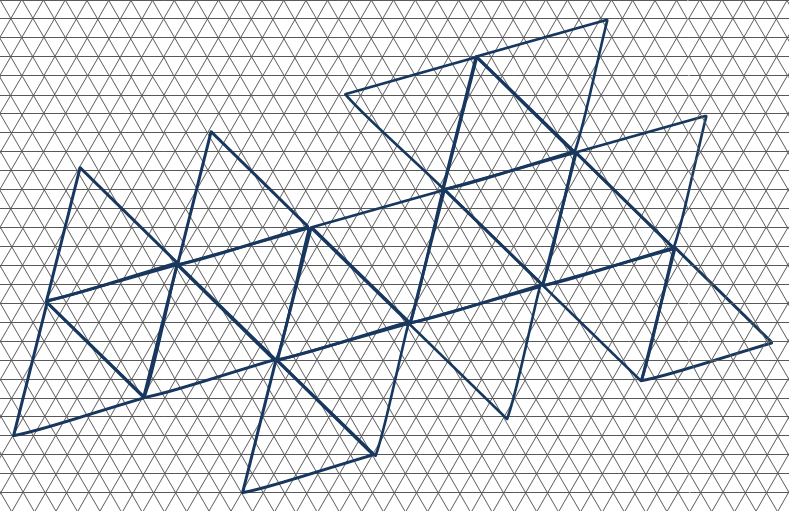
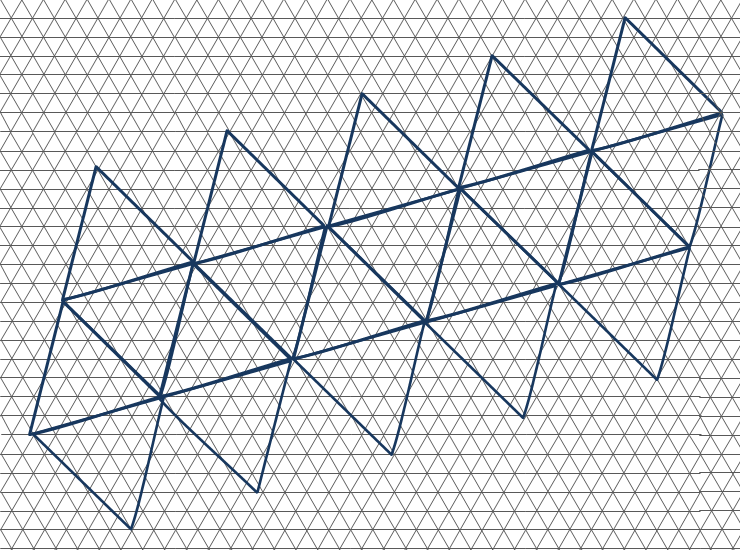
update images

diff --git a/content/snippets/gamelets/Geodesic_Design.md b/content/snippets/gamelets/Geodesic_Design.md
@@ -44,10 +44,17 @@ There are three classes of these types of polyhedra
 * Class II GD(m, m)  
 * Class III GD(m, n) m &ne; n
 
-For Class III GD(m, n) and GD(n, m) are reflections of each other as are GP(m, n) and GP(n, m). We only consider Class III where GD(m, n) where m > n.
+For Class III GD(m, n) and GD(n, m) are reflections of each other as are GP(m, n) and GP(n, m). We only consider Class III GD(m, n) where m > n.
 
 ## Geodesic Nets
 
 ![net 1](/img/snippets/geo4.png)  
-Fig 6 Net of Icosahedron
+Fig 6 Net of Icosahedron for GD(5, 2)
+
+From the net we can see that while some of the triangular facets that will make up the mesh lie in the plane of a primary triangle others will lie across adjacent primary triangles
+
+![net 2](/img/snippets/geo7.png)  
+Fig 7 Vertices of some facets lie across adjacent primary triangles.
+
+When the icosahedron is formed from the net these facets will not lie on any the plane of any primary triangle.
 
